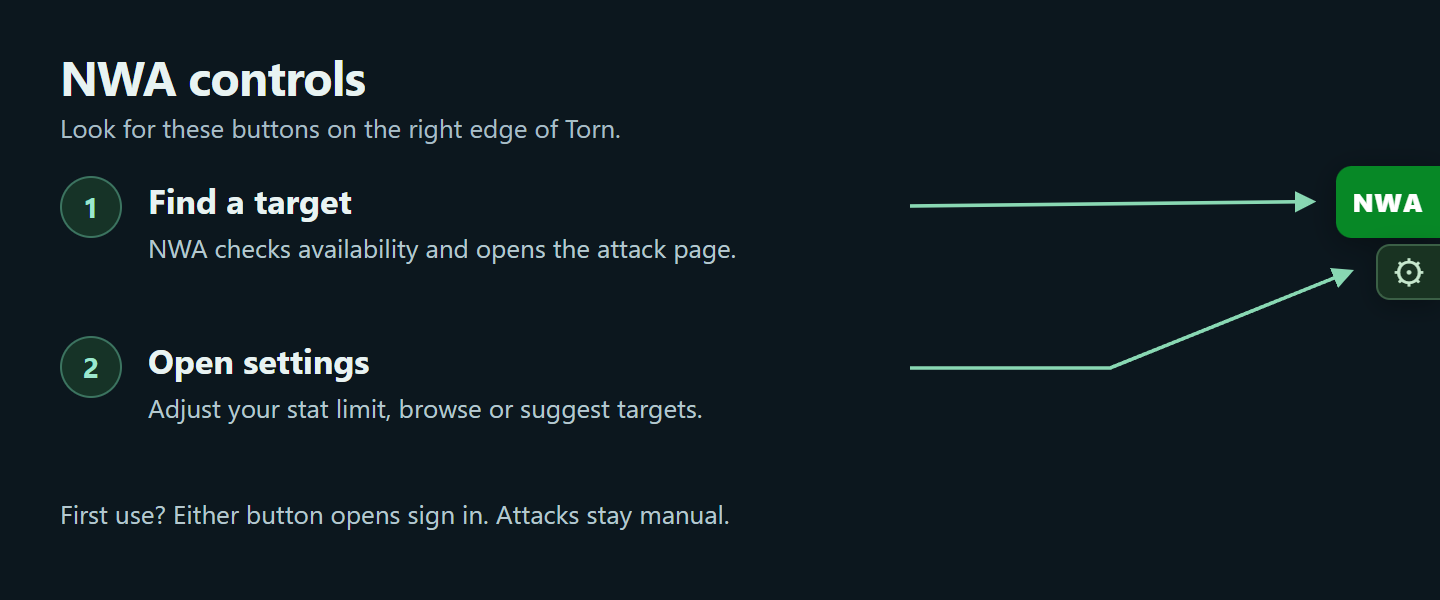
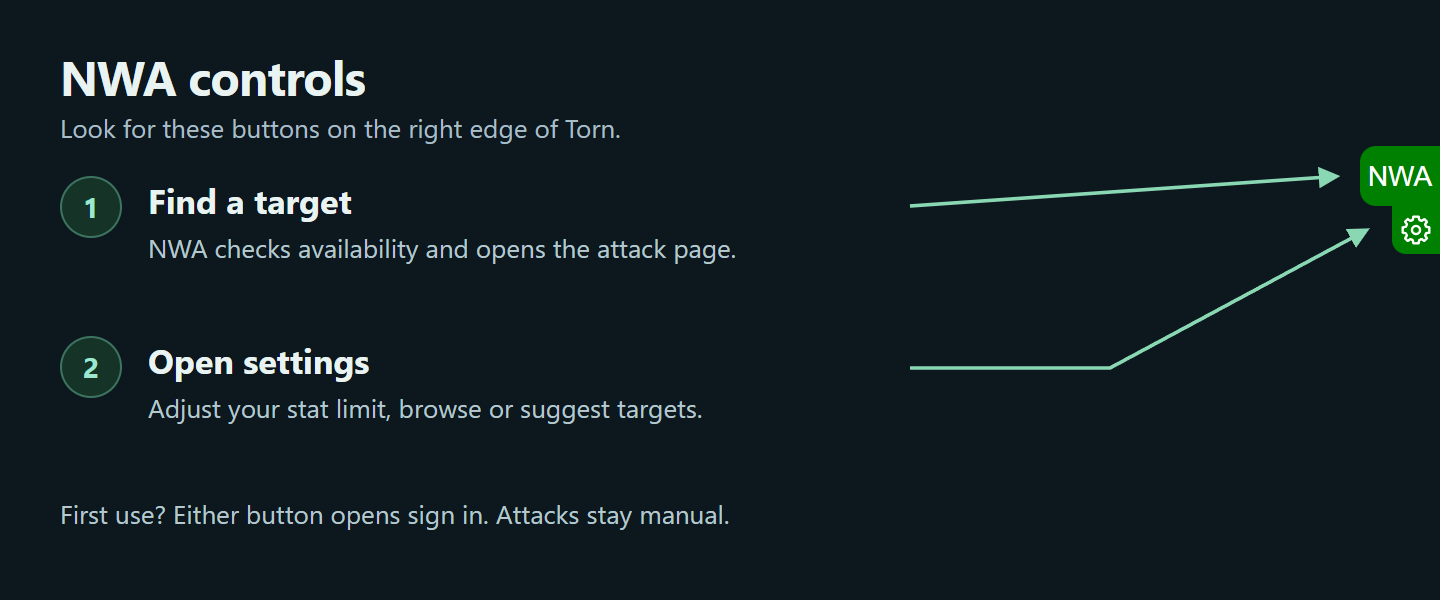
fix: replace legacy target list and match compact FF controls

Changed region(s): [[0.625, 0.24, 1.0, 0.57], [0.7812, 0.57, 0.8125, 0.6]]

diff --git a/dist/torn-targetlist.user.js b/dist/torn-targetlist.user.js
@@ -1,8 +1,10 @@
 // ==UserScript==
 // @name         NWA Target Finder
 // @namespace    torn-faction-targetlist
-// @version      0.3.0
+// @version      0.3.1
 // @description  North West Alliance chain targets.
+// @downloadURL  https://raw.githubusercontent.com/Grussniffer/torn-targetlist-script/codex/initial/dist/torn-targetlist.user.js
+// @updateURL    https://raw.githubusercontent.com/Grussniffer/torn-targetlist-script/codex/initial/dist/torn-targetlist.user.js
 // @match        https://www.torn.com/*
 // @match        https://torn.com/*
 // @grant        GM_xmlhttpRequest
@@ -82,9 +84,14 @@ const TargetListCore = (() => {
 })();
 
 // Keep this service hostname and @connect in metadata.txt in sync when deploying elsewhere.
-const CONFIG = Object.freeze({ serviceUrl: 'https://targetlist.grusmedia.no' });
+const CONFIG = Object.freeze({ serviceUrl: 'https://targetlist.grusmedia.no', version: '0.3.1' });
 
-if (!document.getElementById('torn-targetlist-host')) {
+const previousHost = document.getElementById('torn-targetlist-host');
+const mountedVersion = previousHost?.getAttribute('data-nwa-version') || '';
+if (!previousHost || !/^\d+\.\d+\.\d+$/.test(mountedVersion)
+    || mountedVersion.localeCompare(CONFIG.version, undefined, { numeric: true }) < 0) {
+  // Earlier Target List editions used the same host ID and could hide NWA entirely.
+  previousHost?.remove();
   mountTargetList();
 }
 
@@ -99,6 +106,7 @@ function mountTargetList() {
   const savedRatio = preferences?.maxRatio;
   const host = document.createElement('div');
   host.id = 'torn-targetlist-host';
+  host.setAttribute('data-nwa-version', CONFIG.version);
   host.style.cssText = 'position:fixed;inset:0;z-index:2147483000;pointer-events:none;';
   document.body.append(host);
   const root = host.attachShadow({ mode: 'closed' });
@@ -122,13 +130,15 @@ function mountTargetList() {
     a{color:#7fe0ce;text-decoration:none}a:hover{text-decoration:underline}p{margin:0 0 12px}h2,h3{margin:0}
     input,select,textarea{color:#edf4f4;background:#101c24;border:1px solid #3d505b;border-radius:8px;padding:10px;min-width:0}
     input:focus,select:focus,textarea:focus{border-color:#69d7c0}label{display:block}small,.muted{color:#a8b9c2;font-size:12px}
-    .dock{position:absolute;right:0;top:18vh;display:flex;flex-direction:column;align-items:flex-end;gap:3px;pointer-events:auto}
-    .launcher{width:52px;height:36px;padding:0;border:0;border-radius:8px 0 0 8px;background:#078826;color:#fff;font-size:13px;
-      font-weight:800;letter-spacing:.5px;box-shadow:0 3px 15px #0005}.launcher:hover:not(:disabled){background:#0a9e30}
+    .dock{position:absolute;right:0;top:17vh;display:flex;flex-direction:column;align-items:flex-end;gap:0;pointer-events:auto}
+    .launcher{display:grid;place-items:center;width:40px;height:30px;padding:0;border:0;border-radius:8px 0 0 8px;
+      background:#008000;color:#fff;font:400 14px Arial,Helvetica,sans-serif;line-height:1;box-shadow:none}
+    .launcher:hover:not(:disabled){background:#009000}
     .launcher[aria-busy=true]{animation:nwa-pulse 1s ease-in-out infinite}
-    .settings-toggle{width:32px;height:28px;padding:0;border-radius:7px 0 0 7px;border:1px solid #3b6046;border-right:0;
-      background:#193322;color:#c6e7cd;font-size:19px;line-height:1;box-shadow:0 3px 12px #0004}
-    .settings-toggle:hover:not(:disabled){background:#284c34}
+    .settings-toggle{display:grid;place-items:center;width:24px;height:24px;padding:0;border-radius:0 0 0 7px;border:0;
+      background:#008000;color:#fff;line-height:1;box-shadow:none}
+    .settings-toggle:hover:not(:disabled){background:#009000}
+    .settings-toggle svg{display:block;width:16px;height:16px;pointer-events:none}
     .quick-notice{position:absolute;right:60px;top:0;width:max-content;max-width:min(260px,calc(100vw - 76px));padding:9px 12px;
       border:1px solid #3b6046;border-radius:9px;background:#14291c;color:#e5f6e8;font-size:12px;box-shadow:0 4px 18px #0005}
     @keyframes nwa-pulse{50%{background:#13672a}}
@@ -162,7 +172,6 @@ function mountTargetList() {
     @media(max-width:480px){.panel{top:8px;right:60px;width:calc(100vw - 68px);max-height:calc(100dvh - 16px)}
       .scroll{padding:14px}.toolbar{grid-template-columns:1fr}.statgrid{grid-template-columns:repeat(2,1fr)}
       .metrics{grid-template-columns:1fr 1fr}.cardhead{flex-wrap:wrap}.badge{white-space:normal}.actions{gap:8px}.header{padding:12px 14px}.suggestionfields{grid-template-columns:1fr}}
-    @media(pointer:coarse){.launcher{height:44px}.settings-toggle{width:36px;height:36px}}
   `;
   root.append(css);
   function element(tag, text, className) {
@@ -182,7 +191,7 @@ function mountTargetList() {
   const panel = element('section', null, 'panel'); panel.hidden = true;
   panel.id = 'nwa-panel'; panel.setAttribute('aria-label', 'North West Alliance target finder');
   const header = element('div', null, 'header');
-  const title = element('div'); title.append(element('div', 'NWA Target Finder', 'eyebrow'), element('h2', 'North West Alliance'));
+  const title = element('div'); title.append(element('div', `NWA Target Finder · v${CONFIG.version}`, 'eyebrow'), element('h2', 'North West Alliance'));
   header.append(title, button('×', () => toggle(false), 'icon'));
   header.lastChild.setAttribute('aria-label', 'Close NWA settings');
   const scroll = element('div', null, 'scroll');
@@ -191,7 +200,16 @@ function mountTargetList() {
   const dock = element('div', null, 'dock');
   const launcher = button('NWA', () => void findTarget(), 'launcher');
   launcher.setAttribute('aria-label', 'NWA — find a target'); launcher.title = 'North West Alliance — find a target';
-  const settings = button('⚙', () => { state.findAfterLogin = false; cancelFind(); toggle(!state.open); }, 'settings-toggle');
+  const settings = button('', () => { state.findAfterLogin = false; cancelFind(); toggle(!state.open); }, 'settings-toggle');
+  const gear = document.createElementNS('http://www.w3.org/2000/svg', 'svg');
+  gear.setAttribute('viewBox', '0 0 24 24'); gear.setAttribute('aria-hidden', 'true'); gear.setAttribute('focusable', 'false');
+  gear.setAttribute('fill', 'none'); gear.setAttribute('stroke', '#fff'); gear.setAttribute('stroke-width', '1.8');
+  gear.setAttribute('stroke-linejoin', 'round');
+  const teeth = document.createElementNS('http://www.w3.org/2000/svg', 'path');
+  teeth.setAttribute('d', 'M10 2h4l.4 2.4 1.8.8 2-1.4 2 2-1.4 2 .8 1.8L22 10v4l-2.4.4-.8 1.8 1.4 2-2 2-2-1.4-1.8.8L14 22h-4l-.4-2.4-1.8-.8-2 1.4-2-2 1.4-2-.8-1.8L2 14v-4l2.4-.4.8-1.8-1.4-2 2-2 2 1.4 1.8-.8Z');
+  const center = document.createElementNS('http://www.w3.org/2000/svg', 'circle');
+  center.setAttribute('cx', '12'); center.setAttribute('cy', '12'); center.setAttribute('r', '3');
+  gear.append(teeth, center); settings.append(gear);
   settings.setAttribute('aria-label', 'NWA settings'); settings.setAttribute('aria-controls', panel.id);
   settings.setAttribute('aria-expanded', 'false'); settings.title = 'NWA settings';
   const quickNotice = element('div', null, 'quick-notice'); quickNotice.setAttribute('role', 'status'); quickNotice.hidden = true;

diff --git a/src/app.js b/src/app.js
@@ -1,7 +1,12 @@
 // Keep this service hostname and @connect in metadata.txt in sync when deploying elsewhere.
-const CONFIG = Object.freeze({ serviceUrl: 'https://targetlist.grusmedia.no' });
+const CONFIG = Object.freeze({ serviceUrl: 'https://targetlist.grusmedia.no', version: '0.3.1' });
 
-if (!document.getElementById('torn-targetlist-host')) {
+const previousHost = document.getElementById('torn-targetlist-host');
+const mountedVersion = previousHost?.getAttribute('data-nwa-version') || '';
+if (!previousHost || !/^\d+\.\d+\.\d+$/.test(mountedVersion)
+    || mountedVersion.localeCompare(CONFIG.version, undefined, { numeric: true }) < 0) {
+  // Earlier Target List editions used the same host ID and could hide NWA entirely.
+  previousHost?.remove();
   mountTargetList();
 }
 
@@ -16,6 +21,7 @@ function mountTargetList() {
   const savedRatio = preferences?.maxRatio;
   const host = document.createElement('div');
   host.id = 'torn-targetlist-host';
+  host.setAttribute('data-nwa-version', CONFIG.version);
   host.style.cssText = 'position:fixed;inset:0;z-index:2147483000;pointer-events:none;';
   document.body.append(host);
   const root = host.attachShadow({ mode: 'closed' });
@@ -39,13 +45,15 @@ function mountTargetList() {
     a{color:#7fe0ce;text-decoration:none}a:hover{text-decoration:underline}p{margin:0 0 12px}h2,h3{margin:0}
     input,select,textarea{color:#edf4f4;background:#101c24;border:1px solid #3d505b;border-radius:8px;padding:10px;min-width:0}
     input:focus,select:focus,textarea:focus{border-color:#69d7c0}label{display:block}small,.muted{color:#a8b9c2;font-size:12px}
-    .dock{position:absolute;right:0;top:18vh;display:flex;flex-direction:column;align-items:flex-end;gap:3px;pointer-events:auto}
-    .launcher{width:52px;height:36px;padding:0;border:0;border-radius:8px 0 0 8px;background:#078826;color:#fff;font-size:13px;
-      font-weight:800;letter-spacing:.5px;box-shadow:0 3px 15px #0005}.launcher:hover:not(:disabled){background:#0a9e30}
+    .dock{position:absolute;right:0;top:17vh;display:flex;flex-direction:column;align-items:flex-end;gap:0;pointer-events:auto}
+    .launcher{display:grid;place-items:center;width:40px;height:30px;padding:0;border:0;border-radius:8px 0 0 8px;
+      background:#008000;color:#fff;font:400 14px Arial,Helvetica,sans-serif;line-height:1;box-shadow:none}
+    .launcher:hover:not(:disabled){background:#009000}
     .launcher[aria-busy=true]{animation:nwa-pulse 1s ease-in-out infinite}
-    .settings-toggle{width:32px;height:28px;padding:0;border-radius:7px 0 0 7px;border:1px solid #3b6046;border-right:0;
-      background:#193322;color:#c6e7cd;font-size:19px;line-height:1;box-shadow:0 3px 12px #0004}
-    .settings-toggle:hover:not(:disabled){background:#284c34}
+    .settings-toggle{display:grid;place-items:center;width:24px;height:24px;padding:0;border-radius:0 0 0 7px;border:0;
+      background:#008000;color:#fff;line-height:1;box-shadow:none}
+    .settings-toggle:hover:not(:disabled){background:#009000}
+    .settings-toggle svg{display:block;width:16px;height:16px;pointer-events:none}
     .quick-notice{position:absolute;right:60px;top:0;width:max-content;max-width:min(260px,calc(100vw - 76px));padding:9px 12px;
       border:1px solid #3b6046;border-radius:9px;background:#14291c;color:#e5f6e8;font-size:12px;box-shadow:0 4px 18px #0005}
     @keyframes nwa-pulse{50%{background:#13672a}}
@@ -79,7 +87,6 @@ function mountTargetList() {
     @media(max-width:480px){.panel{top:8px;right:60px;width:calc(100vw - 68px);max-height:calc(100dvh - 16px)}
       .scroll{padding:14px}.toolbar{grid-template-columns:1fr}.statgrid{grid-template-columns:repeat(2,1fr)}
       .metrics{grid-template-columns:1fr 1fr}.cardhead{flex-wrap:wrap}.badge{white-space:normal}.actions{gap:8px}.header{padding:12px 14px}.suggestionfields{grid-template-columns:1fr}}
-    @media(pointer:coarse){.launcher{height:44px}.settings-toggle{width:36px;height:36px}}
   `;
   root.append(css);
   function element(tag, text, className) {
@@ -99,7 +106,7 @@ function mountTargetList() {
   const panel = element('section', null, 'panel'); panel.hidden = true;
   panel.id = 'nwa-panel'; panel.setAttribute('aria-label', 'North West Alliance target finder');
   const header = element('div', null, 'header');
-  const title = element('div'); title.append(element('div', 'NWA Target Finder', 'eyebrow'), element('h2', 'North West Alliance'));
+  const title = element('div'); title.append(element('div', `NWA Target Finder · v${CONFIG.version}`, 'eyebrow'), element('h2', 'North West Alliance'));
   header.append(title, button('×', () => toggle(false), 'icon'));
   header.lastChild.setAttribute('aria-label', 'Close NWA settings');
   const scroll = element('div', null, 'scroll');
@@ -108,7 +115,16 @@ function mountTargetList() {
   const dock = element('div', null, 'dock');
   const launcher = button('NWA', () => void findTarget(), 'launcher');
   launcher.setAttribute('aria-label', 'NWA — find a target'); launcher.title = 'North West Alliance — find a target';
-  const settings = button('⚙', () => { state.findAfterLogin = false; cancelFind(); toggle(!state.open); }, 'settings-toggle');
+  const settings = button('', () => { state.findAfterLogin = false; cancelFind(); toggle(!state.open); }, 'settings-toggle');
+  const gear = document.createElementNS('http://www.w3.org/2000/svg', 'svg');
+  gear.setAttribute('viewBox', '0 0 24 24'); gear.setAttribute('aria-hidden', 'true'); gear.setAttribute('focusable', 'false');
+  gear.setAttribute('fill', 'none'); gear.setAttribute('stroke', '#fff'); gear.setAttribute('stroke-width', '1.8');
+  gear.setAttribute('stroke-linejoin', 'round');
+  const teeth = document.createElementNS('http://www.w3.org/2000/svg', 'path');
+  teeth.setAttribute('d', 'M10 2h4l.4 2.4 1.8.8 2-1.4 2 2-1.4 2 .8 1.8L22 10v4l-2.4.4-.8 1.8 1.4 2-2 2-2-1.4-1.8.8L14 22h-4l-.4-2.4-1.8-.8-2 1.4-2-2 1.4-2-.8-1.8L2 14v-4l2.4-.4.8-1.8-1.4-2 2-2 2 1.4 1.8-.8Z');
+  const center = document.createElementNS('http://www.w3.org/2000/svg', 'circle');
+  center.setAttribute('cx', '12'); center.setAttribute('cy', '12'); center.setAttribute('r', '3');
+  gear.append(teeth, center); settings.append(gear);
   settings.setAttribute('aria-label', 'NWA settings'); settings.setAttribute('aria-controls', panel.id);
   settings.setAttribute('aria-expanded', 'false'); settings.title = 'NWA settings';
   const quickNotice = element('div', null, 'quick-notice'); quickNotice.setAttribute('role', 'status'); quickNotice.hidden = true;

diff --git a/README.md b/README.md
@@ -4,7 +4,7 @@ Find chain targets for **North West Alliance**.
 
 ## Install
 
-Open the [script](dist/torn-targetlist.user.js) and copy all its code.
+[Install the latest NWA script](https://raw.githubusercontent.com/Grussniffer/torn-targetlist-script/codex/initial/dist/torn-targetlist.user.js), or open the [script](dist/torn-targetlist.user.js) and copy all its code.
 
 ### Tampermonkey
 
@@ -55,4 +55,4 @@ The backend is already set to [targetlist.grusmedia.no](https://targetlist.grusm
 
 Your key is sent to the backend and Torn for login and kept only for your session. Only allowed factions can use the list. Battle stats are estimates; attacks are manual.
 
-To update, replace the code in your existing userscript and save it.
+To update, use the install link or replace the code in your existing userscript and save it, then reload Torn. Disable any separate old **Torn Faction Target List** entry. The settings header shows the installed NWA version; **v0.3.1** has the compact green NWA tab and the white gear directly underneath.
